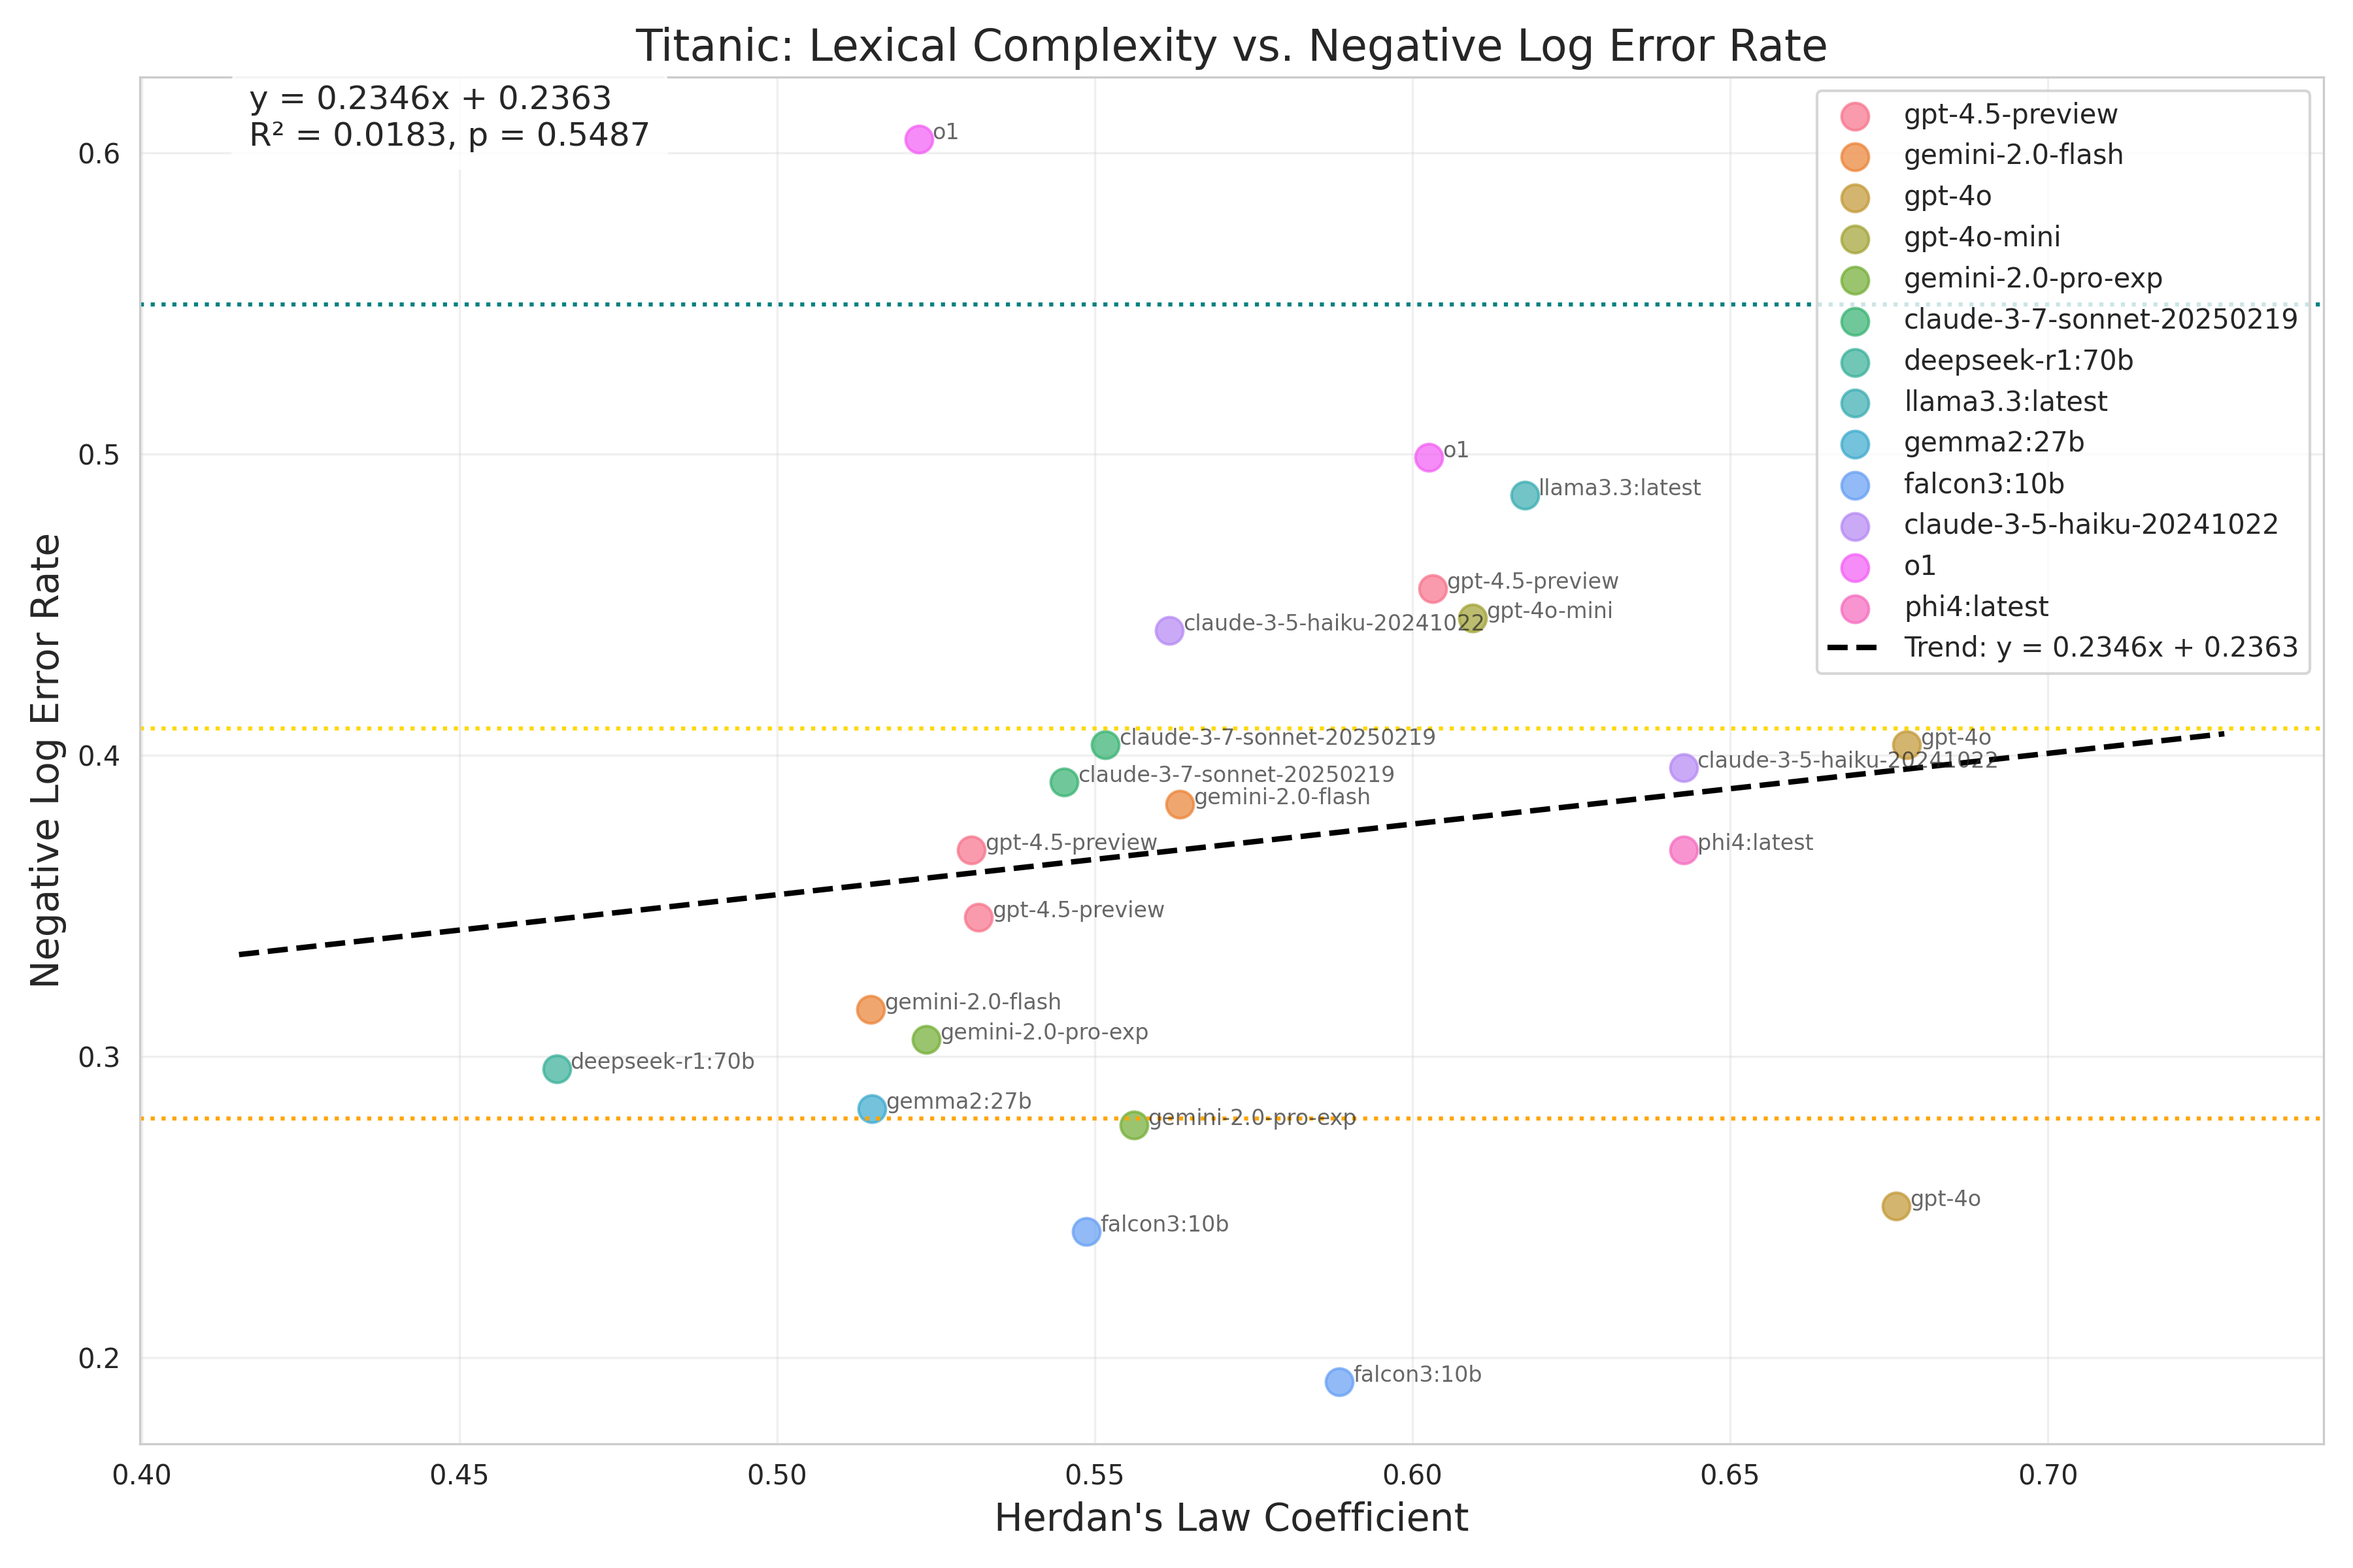
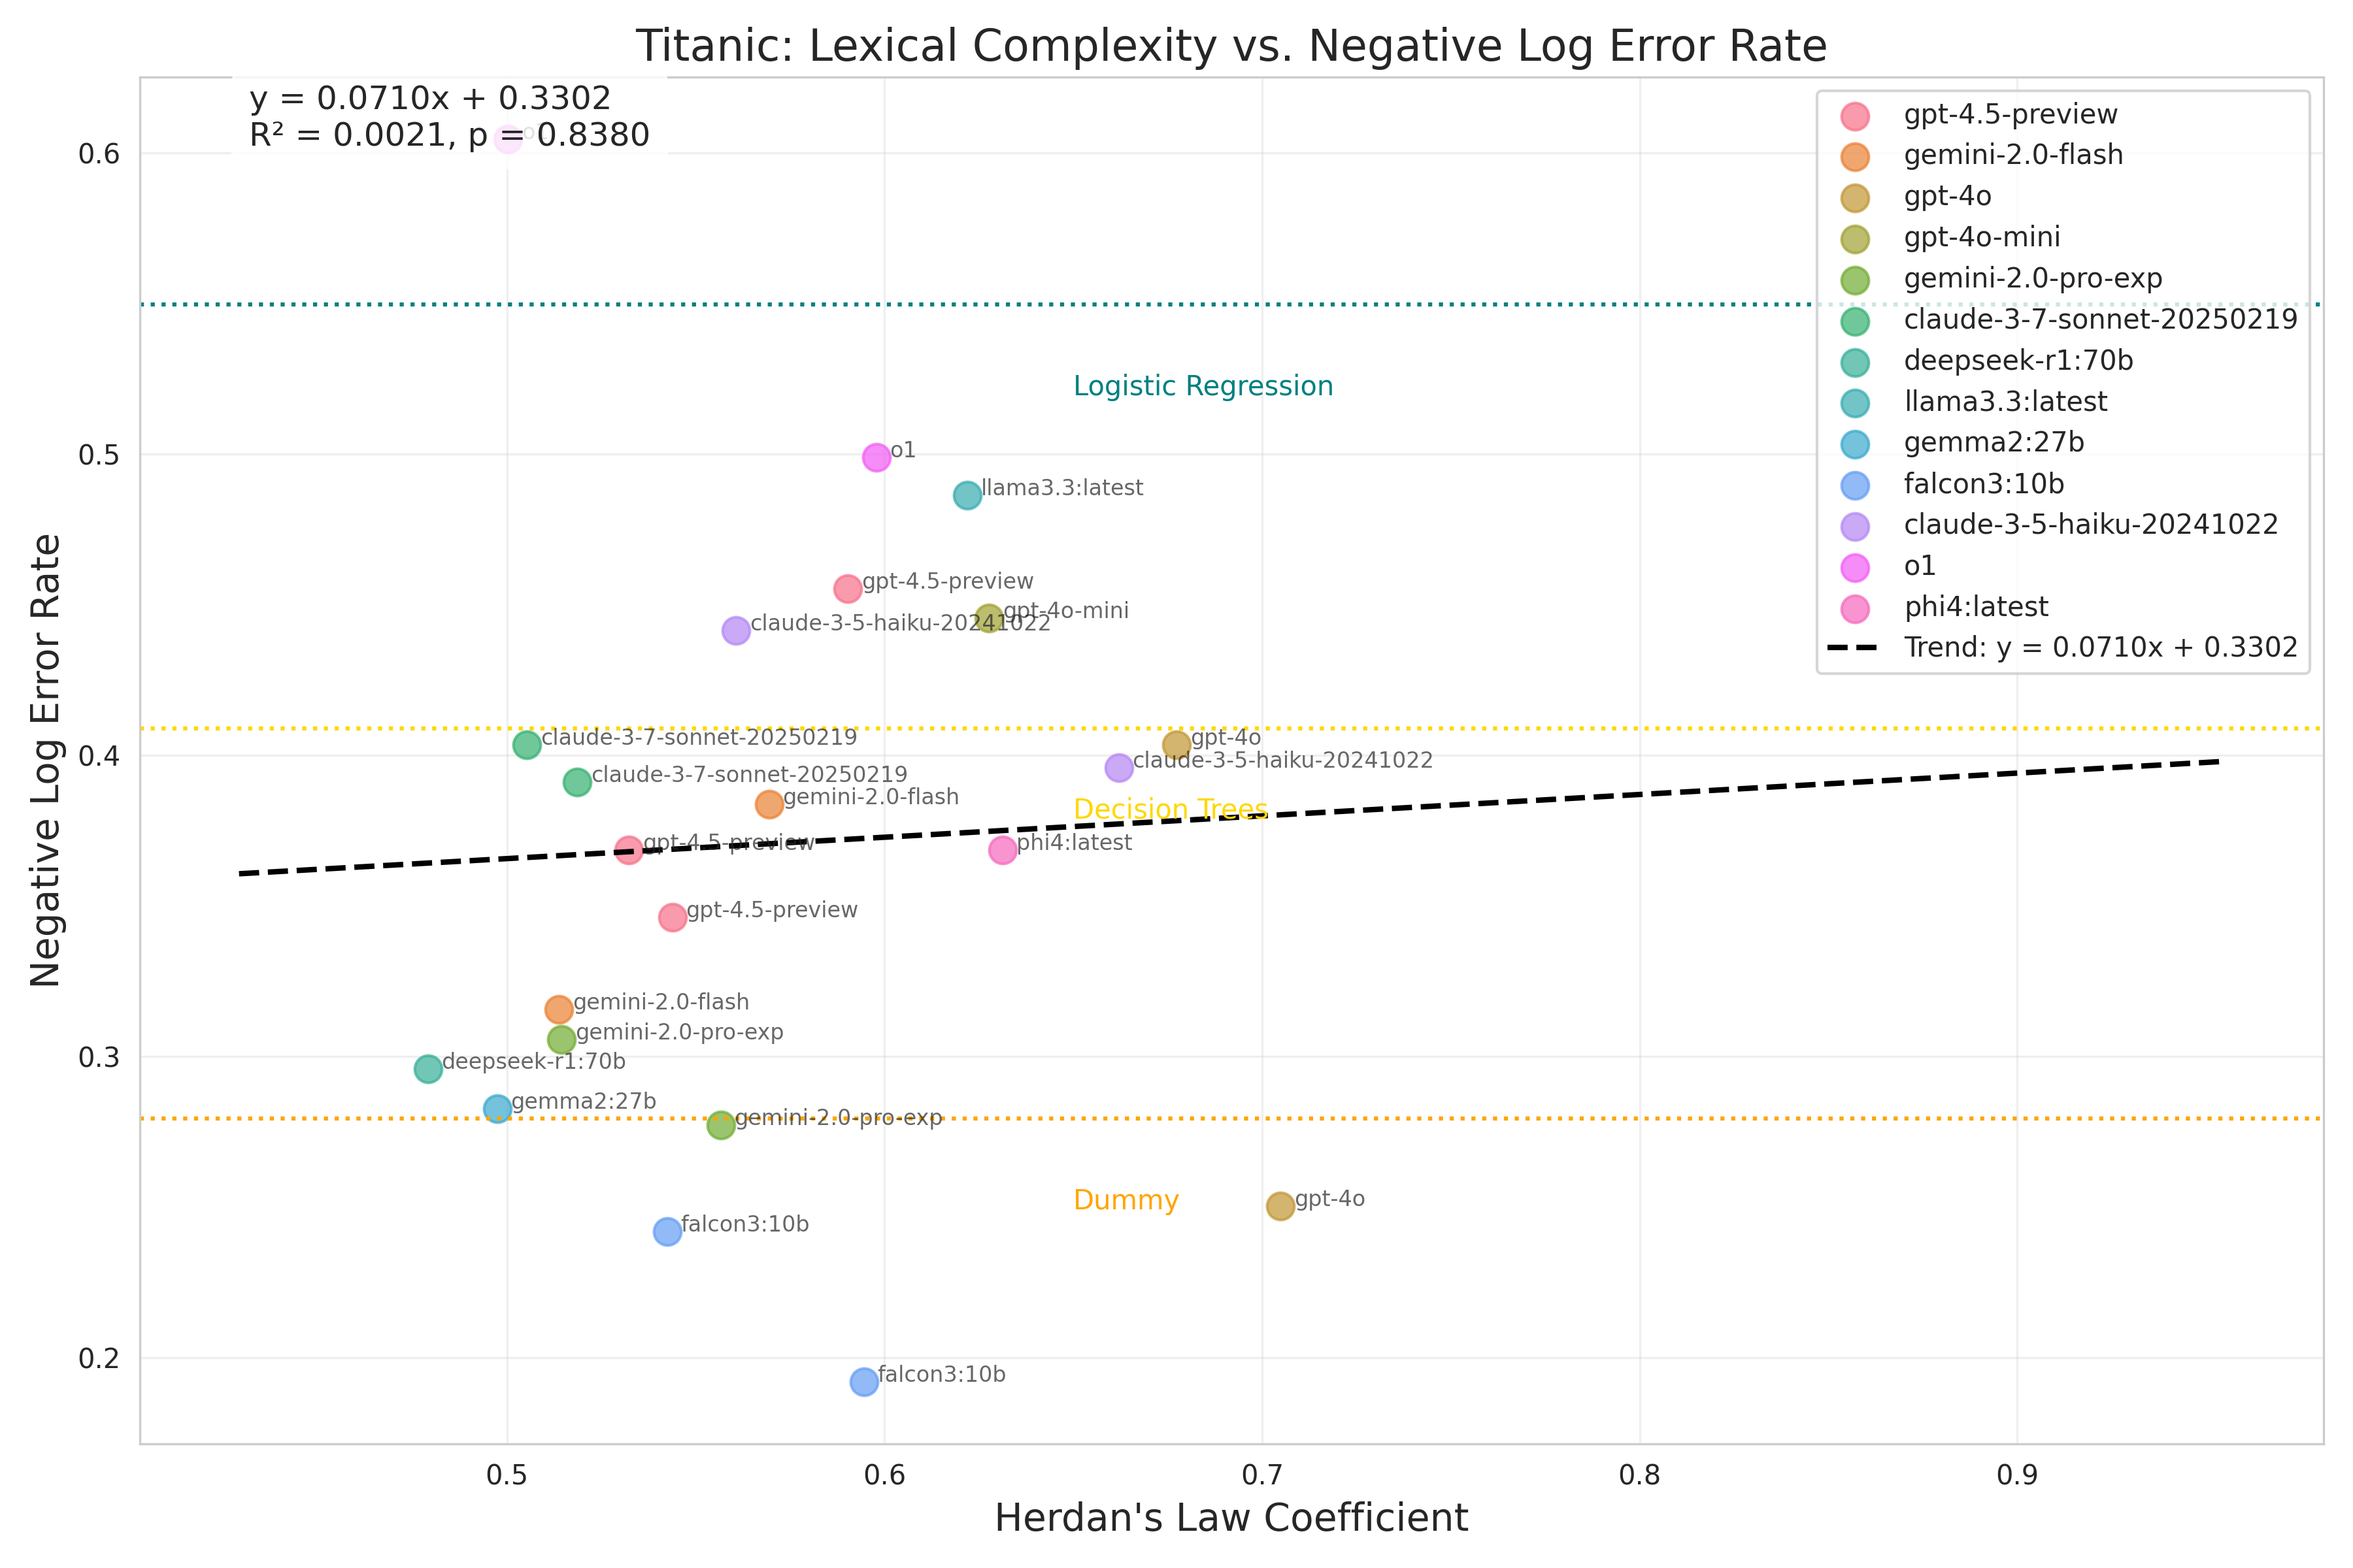
Latest experimental results

diff --git a/outputs/herdan-model-size-definitions.tex b/outputs/herdan-model-size-definitions.tex
@@ -1,3 +1,3 @@
-\newcommand{\herdansizetrend}{-0.021}
-\newcommand{\herdansizetrendpvalue}{0.074}
-\newcommand{\herdanaveragecorrelation}{0.47}
+\newcommand{\herdansizetrend}{-0.025}
+\newcommand{\herdansizetrendpvalue}{0.038}
+\newcommand{\herdanaveragecorrelation}{0.48}

diff --git a/outputs/southgermancredit_error_rate_by_herdan_slope.tex b/outputs/southgermancredit_error_rate_by_herdan_slope.tex
@@ -1,1 +1,1 @@
--0.179
+-0.213

diff --git a/outputs/southgermancredit_error_rate_by_herdan_pvalue.tex b/outputs/southgermancredit_error_rate_by_herdan_pvalue.tex
@@ -1,1 +1,1 @@
-0.436
+0.369

diff --git a/outputs/titanic_error_rate_by_herdan_pvalue.tex b/outputs/titanic_error_rate_by_herdan_pvalue.tex
@@ -1,1 +1,1 @@
-0.549
+0.838

diff --git a/outputs/titanic_error_rate_by_herdan_slope.tex b/outputs/titanic_error_rate_by_herdan_slope.tex
@@ -1,1 +1,1 @@
-0.235
+0.071

diff --git a/outputs/wisconsin_error_rate_by_herdan_pvalue.tex b/outputs/wisconsin_error_rate_by_herdan_pvalue.tex
@@ -1,1 +1,1 @@
-0.028
+0.029

diff --git a/outputs/wisconsin_error_rate_by_herdan_slope.tex b/outputs/wisconsin_error_rate_by_herdan_slope.tex
@@ -1,1 +1,1 @@
-1.474
+1.458
